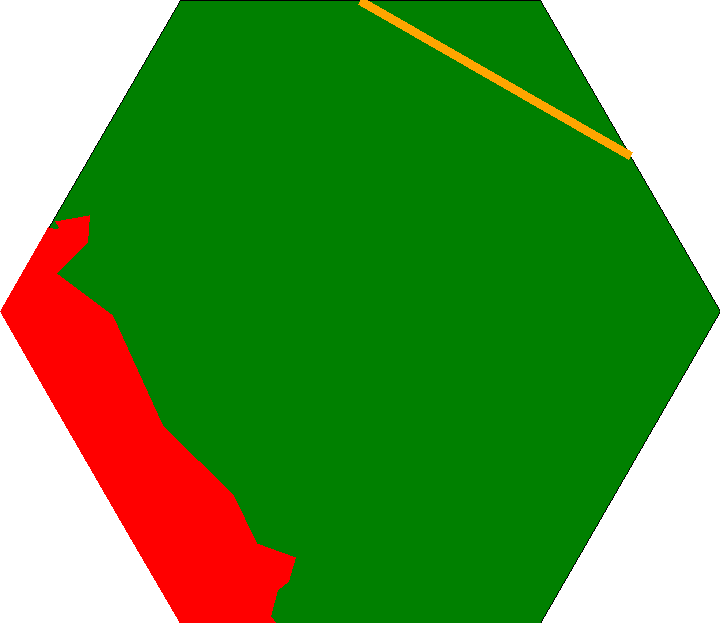
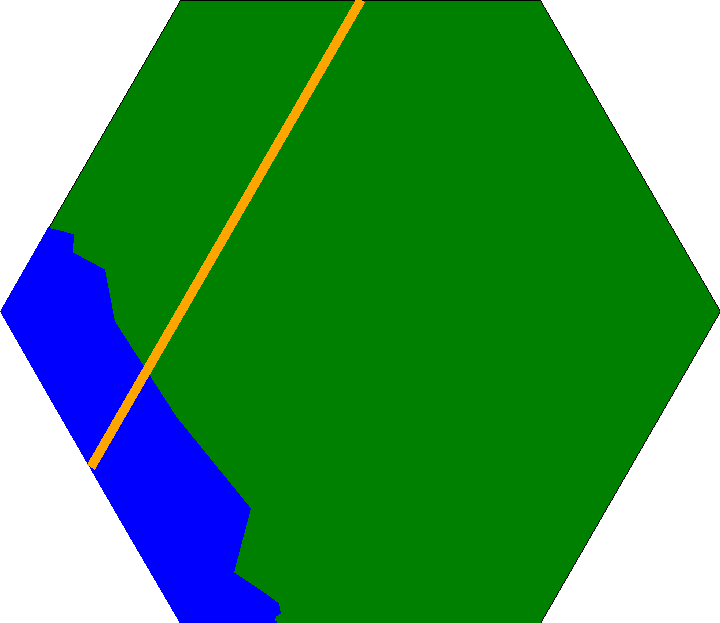
tangential wiggle

Changed region(s): [[0.0, 0.0, 0.8861, 1.0]]

diff --git a/Hex.py b/Hex.py
@@ -80,12 +80,21 @@ def main():
 
 def wiggle(poly):
     #wiggle modifier
-    wpoly = [(statistics.mean([poly[0][0], poly[-1][0]]), statistics.mean([poly[0][1], poly[-1][1]]))]
+    hyp = math.pow(math.pow(poly[0][0] - poly[-1][0],2) + math.pow(poly[0][1] - poly[-1][1],2),0.5)
+    ang = math.atan((poly[0][0] - poly[-1][0])/max((poly[0][1] - poly[-1][1]),0.00001))+math.pi/2
+    r = min(hyp,360/10)
+    r1 = random.uniform(-r,+r)
+    wpoly = [(statistics.mean([poly[0][0], poly[-1][0]])+r1*math.sin(ang), statistics.mean([poly[0][1], poly[-1][1]])+r1*math.cos(ang))]
+    print(poly[0], poly[1], wpoly)
     for n in range(100):
         hyp = math.pow(math.pow(poly[0][0] - wpoly[-1][0],2) + math.pow(poly[0][1] - wpoly[-1][1],2),0.5)
+        ang = math.atan((poly[0][0] - wpoly[-1][0])/max((poly[0][1] - wpoly[-1][1]),0.00001))+math.pi/2
         r = min(hyp/2,360/10)
-        wpoly.append((statistics.mean([poly[0][0], wpoly[-1][0]])+random.uniform(-r,+r), statistics.mean([poly[0][1], wpoly[-1][1]])+random.uniform(-r,+r)))
-        wpoly.insert(0,(statistics.mean([poly[-1][0], wpoly[0][0]])+random.uniform(-r,+r), statistics.mean([poly[-1][1], wpoly[0][1]])+random.uniform(-r,+r)))
+        r1 = random.uniform(-r,+r)
+        r2 = random.uniform(-r,+r)
+        #print(hyp, ang, r1, r2)
+        wpoly.append((statistics.mean([poly[0][0], wpoly[-1][0]])+r1*math.sin(ang), statistics.mean([poly[0][1], wpoly[-1][1]])+r1*math.cos(ang)))
+        wpoly.insert(0,(statistics.mean([poly[-1][0], wpoly[0][0]])+r2*math.sin(ang), statistics.mean([poly[-1][1], wpoly[0][1]])+r2*math.cos(ang)))
     poly.extend(wpoly)
     return poly
 
